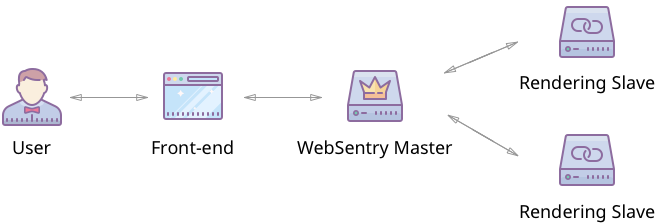
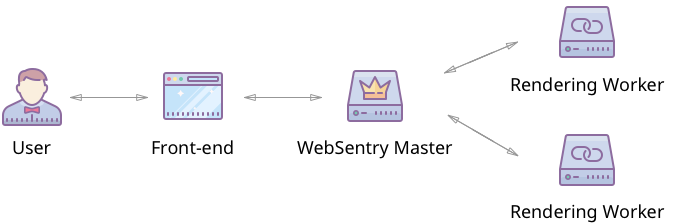
Rename "slave" to "worker" (#47)
* rename

* minor update.

diff --git a/server/router.go b/server/router.go
@@ -18,7 +18,7 @@ func setupRouter() *gin.Engine {
 	corsConfig := cors.DefaultConfig()
 	corsConfig.AllowOrigins = config.GetConfig().CROSAllowOrigins
 	corsConfig.AddAllowHeaders("WS-User-Token")
-	corsConfig.AddAllowHeaders("WS-Slave-Key")
+	corsConfig.AddAllowHeaders("WS-Worker-Key")
 	r.Use(cors.New(corsConfig))
 
 	r.GET("/ping", func(c *gin.Context) {
@@ -73,14 +73,14 @@ func setupRouter() *gin.Engine {
 
 		}
 
-		// slave
-		slaveGroup := v1.Group("/slave")
-		slaveGroup.Use(middlewares.SlaveAuth)
-		slaveGroup.Use(middlewares.GetSlaveLimiter())
+		// worker
+		workerGroup := v1.Group("/worker")
+		workerGroup.Use(middlewares.WorkerAuth)
+		workerGroup.Use(middlewares.GetWorkerLimiter())
 		{
-			slaveGroup.POST("/init", controllers.SlaveInit)
-			slaveGroup.POST("/fetch_task", controllers.SlaveFetchTask)
-			slaveGroup.POST("/submit_task", controllers.SlaveSubmitTask)
+			workerGroup.POST("/init", controllers.WorkerInit)
+			workerGroup.POST("/fetch_task", controllers.WorkerFetchTask)
+			workerGroup.POST("/submit_task", controllers.WorkerSubmitTask)
 		}
 
 		// common

diff --git a/config/config.go b/config/config.go
@@ -11,7 +11,7 @@ type Config struct {
 	Database            Database          `json:"database"`
 	VerificationEmail   VerificationEmail `json:"verificationEmail"`
 	FileStoragePath     string            `json:"fileStoragePath"`
-	SlaveKey            string            `json:"slaveKey"`
+	WorkerKey           string            `json:"workerKey"`
 	TokenSecretKey      string            `json:"tokenSecretKey"`
 	BackendURL          string            `json:"backendUrl"`
 	CROSAllowOrigins    []string          `json:"crosAllowOrigins"`

diff --git a/controllers/worker.go b/controllers/worker.go
@@ -191,11 +191,11 @@ func getTask() (int32, *taskInfo) {
 	}
 }
 
-func SlaveInit(c *gin.Context) {
+func WorkerInit(c *gin.Context) {
 	JSONResponse(c, CodeOK, "", nil)
 }
 
-func SlaveFetchTask(c *gin.Context) {
+func WorkerFetchTask(c *gin.Context) {
 	tid, ti := getTask()
 
 	if tid >= 0 {
@@ -210,7 +210,7 @@ func SlaveFetchTask(c *gin.Context) {
 	}
 }
 
-func SlaveSubmitTask(c *gin.Context) {
+func WorkerSubmitTask(c *gin.Context) {
 	taskq.infoMux.Lock()
 	defer taskq.infoMux.Unlock()
 

diff --git a/functional_test/main.py b/functional_test/main.py
@@ -119,7 +119,7 @@ def build_config(tmp_path: str, db: str, port: int) -> None:
             "password": "password"
         },
         "fileStoragePath": tmp_path,
-        "slaveKey": "testkey",
+        "workerKey": "testkey",
         "tokenSecretKey": "secretkey",
         "backendUrl": "http://127.0.0.1:{}/".format(port),
         "crosAllowOrigins": ["*"],

diff --git a/middlewares/workerAuth.go b/middlewares/workerAuth.go
@@ -6,10 +6,10 @@ import (
 	"github.com/websentry/websentry/controllers"
 )
 
-var slaveKey string
+var workerKey string
 
-func SlaveAuth(c *gin.Context) {
-	if c.GetHeader("WS-Slave-Key") != slaveKey {
+func WorkerAuth(c *gin.Context) {
+	if c.GetHeader("WS-Worker-Key") != workerKey {
 
 		controllers.JSONResponse(c, controllers.CodeAuthError, "", nil)
 

diff --git a/middlewares/limiter.go b/middlewares/limiter.go
@@ -65,7 +65,7 @@ func GetScreenshotLimiter() gin.HandlerFunc {
 	return limitergin.NewMiddleware(limiter.New(store, rate), options...)
 }
 
-func GetSlaveLimiter() gin.HandlerFunc {
+func GetWorkerLimiter() gin.HandlerFunc {
 	store := memory.NewStore()
 	rate := limiter.Rate{
 		Period: 1 * time.Hour,

diff --git a/controllers/common.go b/controllers/common.go
@@ -3,7 +3,7 @@ package controllers
 func Init() {
 	go sentryTaskScheduler()
 
-	// slave
+	// worker
 	taskq.pQueue = make(chan int32, queueBuffer)
 	taskq.nQueue = make(chan int32, queueBuffer)
 	taskq.info = make(map[int32]*taskInfo)

diff --git a/middlewares/common.go b/middlewares/common.go
@@ -3,6 +3,6 @@ package middlewares
 import "github.com/websentry/websentry/config"
 
 func Init() {
-	// slaveAuth
-	slaveKey = config.GetConfig().SlaveKey
+	// workerAuth
+	workerKey = config.GetConfig().WorkerKey
 }

diff --git a/README.md b/README.md
@@ -18,9 +18,9 @@
 
 ![architecture image](docs/assets/architecture.png?raw=true)  
 
-This repository only holds the WebSentry Master. For Front-end and Rendering Slave, please visit:  
+This repository only holds the WebSentry Master. For Front-end and Rendering Worker, please visit:  
 https://github.com/websentry/WebSentry-FrontEnd  
-https://github.com/websentry/WebSentry-Slave
+https://github.com/websentry/WebSentry-Worker
 
 <small>Icons from [icons8](https://icons8.com/)</small>
 

diff --git a/README.cn.md b/README.cn.md
@@ -14,7 +14,7 @@
 
 该仓库仅包含 WebSentry 的主服务代码。对于前端以及渲染从服务代码，请访问：  
 https://github.com/websentry/WebSentry-FrontEnd  
-https://github.com/websentry/WebSentry-Slave
+https://github.com/websentry/WebSentry-Worker
 
 <small>Icons from [icons8](https://icons8.com/)</small>
 
